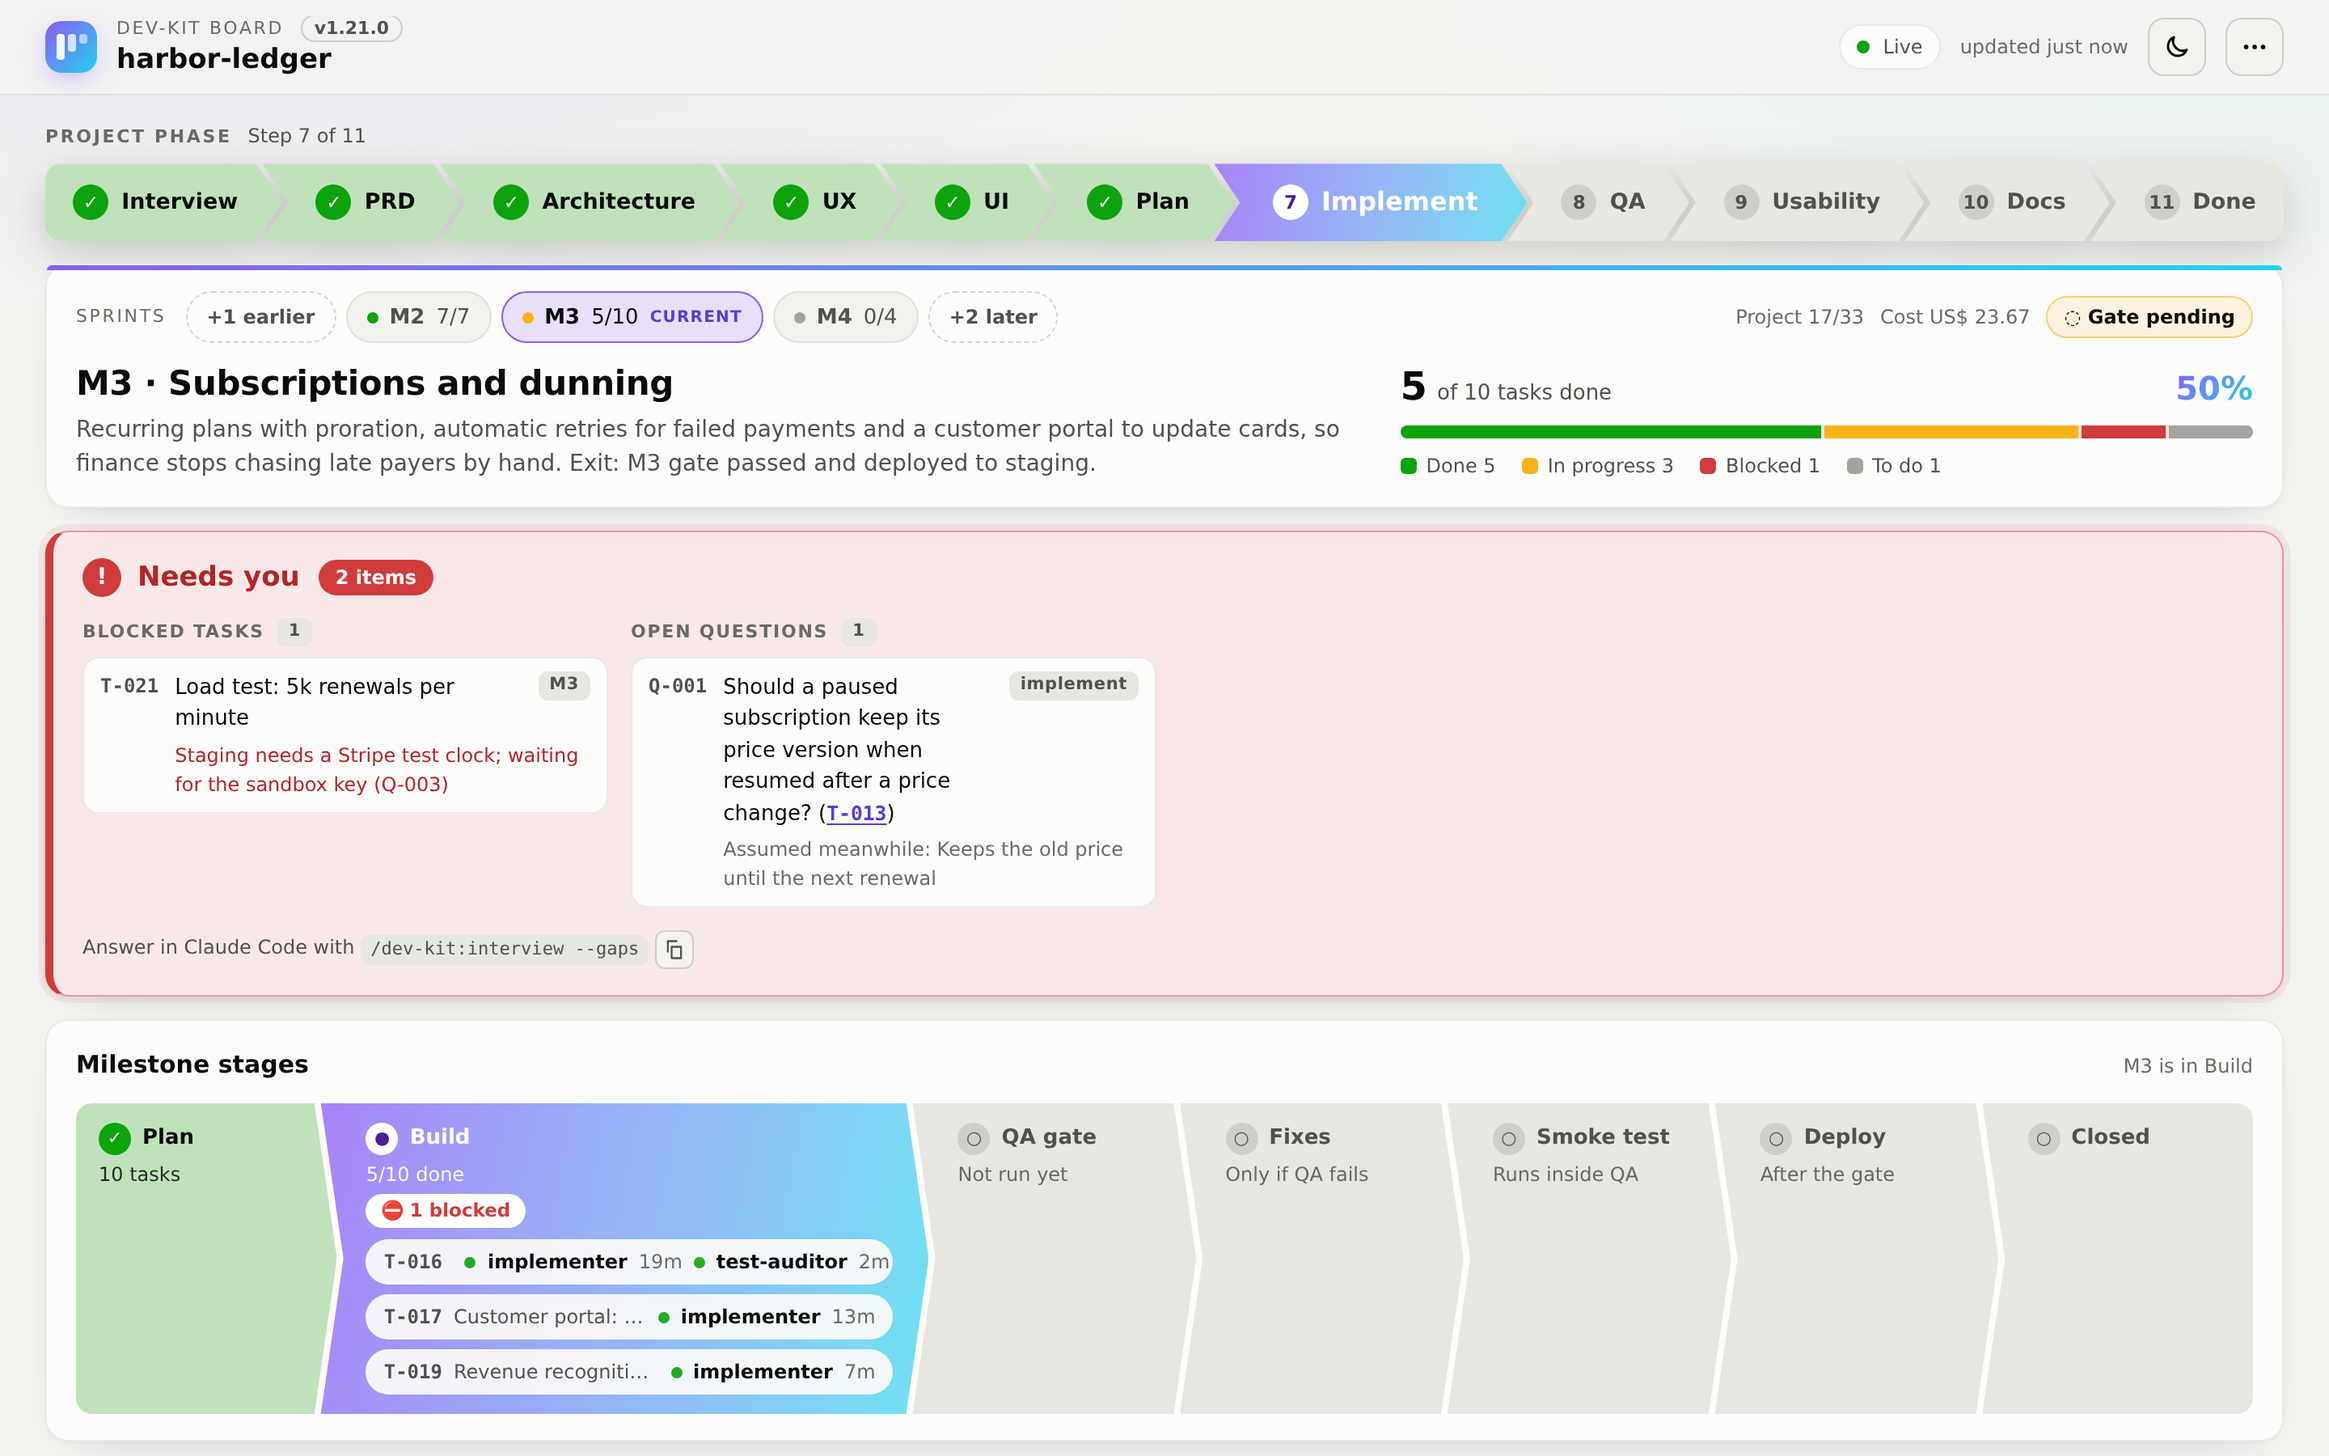
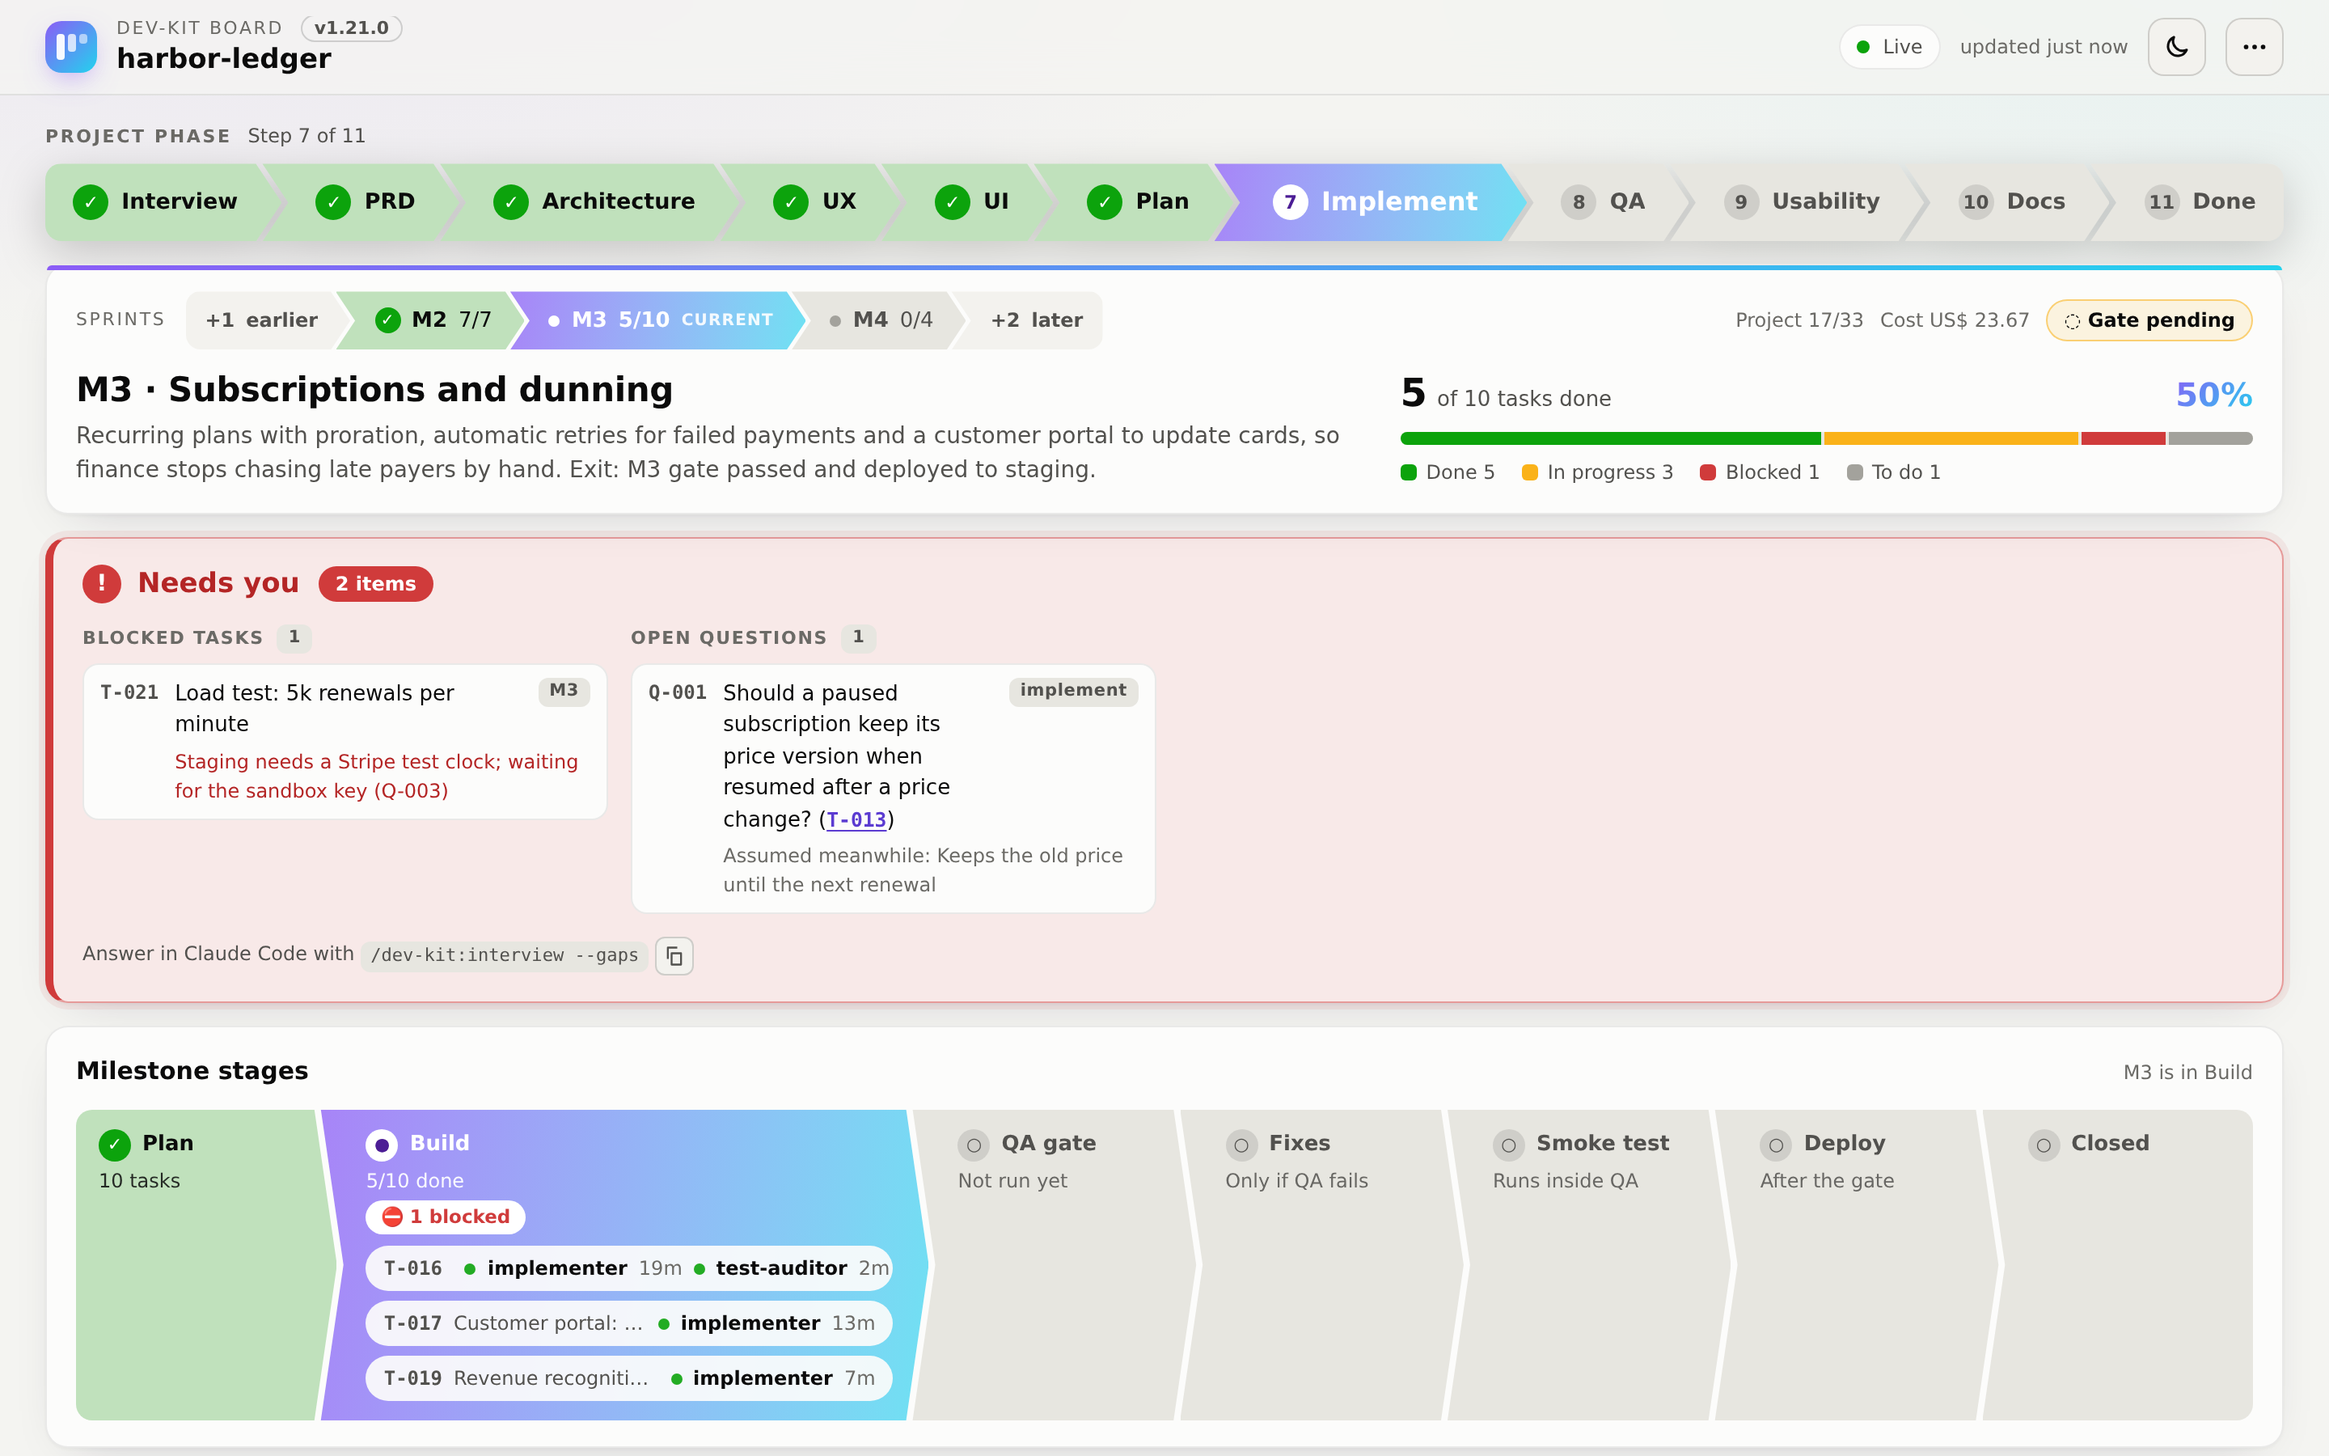
dev-kit 1.21.1: sprints as chevrons
- board: sprint tabs as a chevron strip coloured by state, one line on phones
- board: a task with two agents no longer pushes a 320 px page sideways
- README screenshots with the sprint chevrons

diff --git a/.claude/plugins/dev-kit/skills/core/shared/board/board.css b/.claude/plugins/dev-kit/skills/core/shared/board/board.css
@@ -198,11 +198,31 @@ button.run-chip:hover { background: var(--surface-3); }
 .sprint::before { content: ""; position: absolute; inset: 0 0 auto 0; height: 3px; border-radius: var(--radius) var(--radius) 0 0; background: linear-gradient(90deg, var(--accent-a), var(--accent-b)); }
 .sprint-top { display: flex; align-items: center; gap: 12px; min-width: 0; }
 .sprints-label { font-size: 11px; letter-spacing: .12em; text-transform: uppercase; color: var(--text-muted); flex: none; }
-.tabs-row { display: flex; align-items: center; gap: 6px; min-width: 0; flex: 1; flex-wrap: wrap; }
-#tabs { display: flex; gap: 6px; min-width: 0; }
-.more-tab { font: inherit; font-size: 12px; font-weight: 600; cursor: pointer; color: var(--text-secondary); white-space: nowrap;
-  background: transparent; border: 1px dashed var(--border-strong); border-radius: 999px; padding: 4px 12px; min-height: 32px; }
-.more-tab:hover, .more-tab[aria-expanded="true"] { color: var(--text-primary); background: var(--surface-2); }
+.tabs-row { display: flex; align-items: stretch; gap: 0; min-width: 0; flex: 1; --tip: 12px; }
+#tabs { display: flex; gap: 0; min-width: 0; }
+.tabs-row .pop-wrap { display: flex; }
+/* one chevron strip: earlier list, the 3 sprints, later list */
+.schev, .more-tab { font: inherit; font-size: 13px; cursor: pointer; white-space: nowrap; border: 0; min-height: 36px;
+  display: inline-flex; align-items: center; gap: 7px; font-variant-numeric: tabular-nums;
+  padding: 4px calc(var(--tip) + 8px) 4px calc(var(--tip) + 12px); margin-left: calc(var(--tip) * -1 + 3px);
+  clip-path: polygon(0 0, calc(100% - var(--tip)) 0, 100% 50%, calc(100% - var(--tip)) 100%, 0 100%, var(--tip) 50%); }
+.schev.chev-first, .more-tab.chev-first { margin-left: 0; padding-left: 14px; border-radius: 9px 0 0 9px;
+  clip-path: polygon(0 0, calc(100% - var(--tip)) 0, 100% 50%, calc(100% - var(--tip)) 100%, 0 100%); }
+.schev.chev-last, .more-tab.chev-last { padding-right: 14px; border-radius: 0 9px 9px 0;
+  clip-path: polygon(0 0, 100% 0, 100% 100%, 0 100%, var(--tip) 50%); }
+.schev.chev-first.chev-last { clip-path: none; border-radius: 9px; }
+.schev.st-upcoming { background: var(--surface-3); color: var(--text-secondary); }
+.schev.st-done { background: color-mix(in srgb, var(--good) 22%, var(--surface-2)); color: var(--text-primary); }
+.schev.st-current { background: color-mix(in srgb, var(--warning) 26%, var(--surface-2)); color: var(--text-primary); }
+.schev.here { background: linear-gradient(100deg, color-mix(in srgb, var(--accent-a) 75%, var(--surface-1)), color-mix(in srgb, var(--accent-b) 65%, var(--surface-1))); color: #fff; font-weight: 600; }
+.schev:not(.here):hover { filter: brightness(1.12); }
+:root[data-effective="light"] .schev:not(.here):hover { filter: brightness(.95); }
+.schev:focus-visible, .more-tab:focus-visible { outline: none; box-shadow: inset 0 0 0 2px var(--accent-b); }
+.more-tab { font-size: 12px; font-weight: 600; color: var(--text-secondary); background: var(--surface-2); }
+.more-tab:hover, .more-tab[aria-expanded="true"] { color: var(--text-primary); background: var(--surface-3); }
+.more-tab.chev-first { padding-left: 12px; }
+.more-tab.chev-last { padding-right: 12px; }
+#tabs-back { margin-left: 10px; align-self: center; white-space: nowrap; }
 .sprint-pop { min-width: 300px; max-height: 60vh; overflow: auto; }
 .sprint-list { list-style: none; margin: 0; padding: 0; display: grid; gap: 2px; }
 .sprint-item { font: inherit; font-size: 13px; color: var(--text-primary); background: none; border: 0; cursor: pointer; width: 100%; text-align: left;
@@ -210,17 +230,13 @@ button.run-chip:hover { background: var(--surface-3); }
 .sprint-item:hover { background: var(--surface-3); }
 .sprint-item .si-title { color: var(--text-secondary); overflow: hidden; text-overflow: ellipsis; white-space: nowrap; }
 .sprint-item .si-count { color: var(--text-muted); font-variant-numeric: tabular-nums; }
-#tabs [role="tab"] {
-  font: inherit; font-size: 13px; cursor: pointer; color: var(--text-secondary); white-space: nowrap; flex: none;
-  background: var(--surface-2); border: 1px solid var(--border); border-radius: 999px;
-  padding: 4px 12px; min-height: 32px; display: inline-flex; align-items: center; gap: 7px; font-variant-numeric: tabular-nums;
-}
-#tabs [role="tab"]:hover { border-color: var(--border-strong); color: var(--text-primary); }
-#tabs [role="tab"][aria-selected="true"] { color: var(--text-primary); border-color: var(--accent-a); background: color-mix(in srgb, var(--accent-a) 18%, var(--surface-1)); }
 .tab-dot { width: 7px; height: 7px; border-radius: 50%; background: var(--todo); }
 .tab-dot.passed, .tab-dot.skipped { background: var(--good); }
 .tab-dot.active { background: var(--warning); }
 .tab-current { font-size: 10px; font-weight: 700; letter-spacing: .06em; text-transform: uppercase; color: var(--accent-text); }
+.schev.here .tab-current { color: #fff; opacity: .9; }
+.tab-ok { flex: none; width: 16px; height: 16px; display: inline-grid; place-items: center; border-radius: 50%; background: var(--good); color: #fff; font-size: 10px; font-weight: 800; }
+.schev.here .tab-dot { background: #fff; }
 .sprint-facts { display: flex; align-items: center; gap: 10px; flex: none; font-size: 12px; color: var(--text-muted); white-space: nowrap; }
 .sprint-body { display: grid; grid-template-columns: minmax(0, 1.5fr) minmax(260px, 1fr); gap: 28px; align-items: end; }
 #sprint-title { font-size: 21px; font-weight: 700; letter-spacing: -0.01em; line-height: 1.25; }
@@ -467,7 +483,6 @@ dialog p { color: var(--text-secondary); }
   .phase-chevrons .chev:not(.here) .chev-name { display: none; }
   .phase-chevrons .chev.here { flex: 1 1 auto; }
   .sprint-top { flex-wrap: wrap; }
-  .tabs-row { flex-wrap: nowrap; }
   .sprint-facts { flex-basis: 100%; }
   .stage-top { align-items: flex-start; }
   .stage-name, .stage-note { white-space: normal; overflow-wrap: normal; }
@@ -492,6 +507,7 @@ dialog p { color: var(--text-secondary); }
   .topbar, main { padding-left: 14px; padding-right: 14px; }
   .topbar { gap: 10px; }
   .kicker { display: none; }
+  .stage-run .run-chip { flex-wrap: wrap; row-gap: 2px; border-radius: 14px; }
   /* phases on a phone: previous, current and next only; "Step n of N" gives the rest */
   .phase-chevrons .chev:not(.here):not(.near) { display: none; }
   .phase-chevrons .chev:not(.here) { flex: 0 0 auto; }
@@ -499,9 +515,15 @@ dialog p { color: var(--text-secondary); }
   .phase-chevrons .chev.here .chev-name { font-size: 14.5px; }
   .sprint-top { flex-wrap: wrap; }
   .sprints-label { display: none; }
-  .tabs-row { flex-basis: 100%; flex-wrap: wrap; }
+  .tabs-row { flex-basis: 100%; --tip: 10px; }
+  .tabs-row .pop-wrap, #tabs, #tabs .schev { flex: 1 1 0; min-width: 0; }
+  #tabs { flex: 3 1 0; }
+  .schev, .more-tab { justify-content: center; padding-left: calc(var(--tip) + 6px); padding-right: calc(var(--tip) + 2px); }
+  .more-tab { width: 100%; }
+  .mt-word, .tab-count { display: none; }
+  #tabs-back { flex-basis: 100%; margin: 8px 0 0; }
+  .tabs-row { flex-wrap: wrap; }
   .sprint-facts { flex-wrap: wrap; white-space: normal; }
-  #tabs { flex-wrap: wrap; order: -1; flex-basis: 100%; }
   #tabs .tab-current { display: none; }
   .board-tools { width: 100%; }
   .search { flex: 1; }
@@ -519,6 +541,9 @@ dialog p { color: var(--text-secondary); }
 }
 @media (max-width: 420px) {
   .live #live-text { display: none; }
+  .tabs-row { --tip: 8px; }
+  #tabs .tab-dot, #tabs .tab-ok { display: none; }
+  .schev, .more-tab { padding-left: calc(var(--tip) + 4px); padding-right: calc(var(--tip) + 1px); font-size: 12.5px; }
   .brand { flex: 1 1 auto; }
   .live { padding: 6px; }
 }

diff --git a/.claude/plugins/dev-kit/skills/core/shared/board/board.js b/.claude/plugins/dev-kit/skills/core/shared/board/board.js
@@ -262,21 +262,27 @@
     const cur = currentId();
     const ms = data.milestones;
     const [a, b] = tabWindow(ms.map((m) => m.id), cur);
-    const tabs = ms.slice(a, b).map((m) => {
+    // sprints as one chevron strip: [+N earlier] M-1 › M › M+1 [+N later], coloured by the milestone's state
+    const hasEarlier = a > 0, hasLater = b < ms.length;
+    const shown = ms.slice(a, b);
+    const tabs = shown.map((m, i) => {
       const x = sprintInfo(m);
+      const closed = m.gate === "passed" || m.gate === "skipped";
+      const state = m.id === cur ? "here" : closed ? "st-done" : x.active || m.id === data.current_milestone ? "st-current" : "st-upcoming";
+      const edge = `${i === 0 && !hasEarlier ? " chev-first" : ""}${i === shown.length - 1 && !hasLater ? " chev-last" : ""}`;
       return h("button", {
-        role: "tab", type: "button", id: `tab-${m.id}`, "aria-selected": String(m.id === cur), "aria-controls": "main",
+        role: "tab", type: "button", id: `tab-${m.id}`, class: `schev ${state}${edge}`, "aria-selected": String(m.id === cur), "aria-controls": "main",
         tabindex: m.id === cur ? "0" : "-1", title: `${m.title || m.id} · gate ${m.gate}`,
         onclick: () => selectSprint(m.id, true),
-      }, h("span", { class: `tab-dot ${x.active ? "active" : m.gate}`, "aria-hidden": "true" }), h("strong", { text: m.id }),
-      h("span", { text: `${x.done}/${x.total}` }),
+      }, closed ? h("span", { class: "tab-ok", "aria-hidden": "true", text: "✓" }) : h("span", { class: `tab-dot ${x.active ? "active" : m.gate}`, "aria-hidden": "true" }),
+      h("strong", { text: m.id }), h("span", { class: "tab-count", text: `${x.done}/${x.total}` }),
       m.id === data.current_milestone ? h("span", { class: "tab-current", text: "current" }) : null);
     });
     if (!tabs.length) tabs.push(h("span", { class: "card-sub" }, "No milestones yet. They appear after ", cmd("/dev-kit:plan"), "."));
     fill($("tabs"), tabs);
     const side = (key, list, word) => {
       $(`tabs-${key}-wrap`).hidden = !list.length;
-      $(`tabs-${key}`).textContent = `+${list.length} ${word}`;
+      fill($(`tabs-${key}`), `+${list.length}`, h("span", { class: "mt-word", text: ` ${word}` }));
       $(`tabs-${key}`).setAttribute("aria-label", `${plural(list.length, `${word} sprint`)}: choose one`);
       fill($(`tabs-${key}-list`), list.map((m) => {
         const x = sprintInfo(m);

diff --git a/.claude/plugins/dev-kit/skills/core/shared/board/index.html b/.claude/plugins/dev-kit/skills/core/shared/board/index.html
@@ -67,12 +67,12 @@
         <span class="sprints-label" id="tabs-label">Sprints</span>
         <div class="tabs-row">
           <div class="pop-wrap" id="tabs-earlier-wrap" hidden>
-            <button type="button" class="more-tab" id="tabs-earlier" aria-haspopup="true" aria-expanded="false" aria-controls="tabs-earlier-pop"></button>
+            <button type="button" class="more-tab chev-first" id="tabs-earlier" aria-haspopup="true" aria-expanded="false" aria-controls="tabs-earlier-pop"></button>
             <div class="popover sprint-pop" id="tabs-earlier-pop" hidden><p class="pop-title">Earlier sprints</p><ul class="sprint-list" id="tabs-earlier-list"></ul></div>
           </div>
           <div role="tablist" id="tabs" aria-labelledby="tabs-label"></div>
           <div class="pop-wrap" id="tabs-later-wrap" hidden>
-            <button type="button" class="more-tab" id="tabs-later" aria-haspopup="true" aria-expanded="false" aria-controls="tabs-later-pop"></button>
+            <button type="button" class="more-tab chev-last" id="tabs-later" aria-haspopup="true" aria-expanded="false" aria-controls="tabs-later-pop"></button>
             <div class="popover sprint-pop" id="tabs-later-pop" hidden><p class="pop-title">Later sprints</p><ul class="sprint-list" id="tabs-later-list"></ul></div>
           </div>
           <button type="button" class="link-btn" id="tabs-back" hidden>Back to current</button>

diff --git a/README.md b/README.md
@@ -7,7 +7,7 @@ You answer one thorough interview. The kit then writes the PRD, architecture and
 <p align="center">
   <picture>
     <source media="(prefers-color-scheme: dark)" srcset=".github/assets/dev-kit-board-dark.png">
-    <img src=".github/assets/dev-kit-board.png" alt="dev-kit board of a sample project: the project phase as a row of chevrons (step 7 of 11, implement), the current sprint between its neighbours with its goal and progress, a highlighted Needs you strip with one blocked task and one open question, and the milestone stages as chevrons with three implementer agents and a test auditor running in the Build stage" width="900">
+    <img src=".github/assets/dev-kit-board.png" alt="dev-kit board of a sample project: the project phase as a row of chevrons (step 7 of 11, implement), the sprints as chevrons too, with the current one between its neighbours, its goal and progress, a highlighted Needs you strip with one blocked task and one open question, and the milestone stages as chevrons with three implementer agents and a test auditor running in the Build stage" width="900">
   </picture>
   <br>
   <sub><code>/dev-kit:board</code> shows the build in <b>real time</b> in your browser: the project phase, what needs you, the stage of the milestone with what is running in it, then the sprint kanban, quality gates, burndown and activity.</sub>

diff --git a/.claude/plugins/dev-kit/CHANGELOG.md b/.claude/plugins/dev-kit/CHANGELOG.md
@@ -2,6 +2,15 @@
 
 All notable changes to the dev-kit plugin. Versions follow `.claude-plugin/plugin.json`. Entries before 1.12.0 were reconstructed from the git history.
 
+## 1.21.1 — 2026-11-20
+
+### Changed
+- Board: the sprint tabs are a chevron strip like the phase and the stages: "+N earlier", the selected sprint and its neighbours, "+N later", each coloured by its state (gate passed ✓, in progress, not started; the selected one highlighted). On a phone the strip keeps one line with short labels.
+- README screenshots show the sprint chevrons.
+
+### Fixed
+- Board on a 320 px screen: a running task with two agents no longer pushes the page sideways.
+
 ## 1.21.0 — 2026-11-20
 
 ### Added
